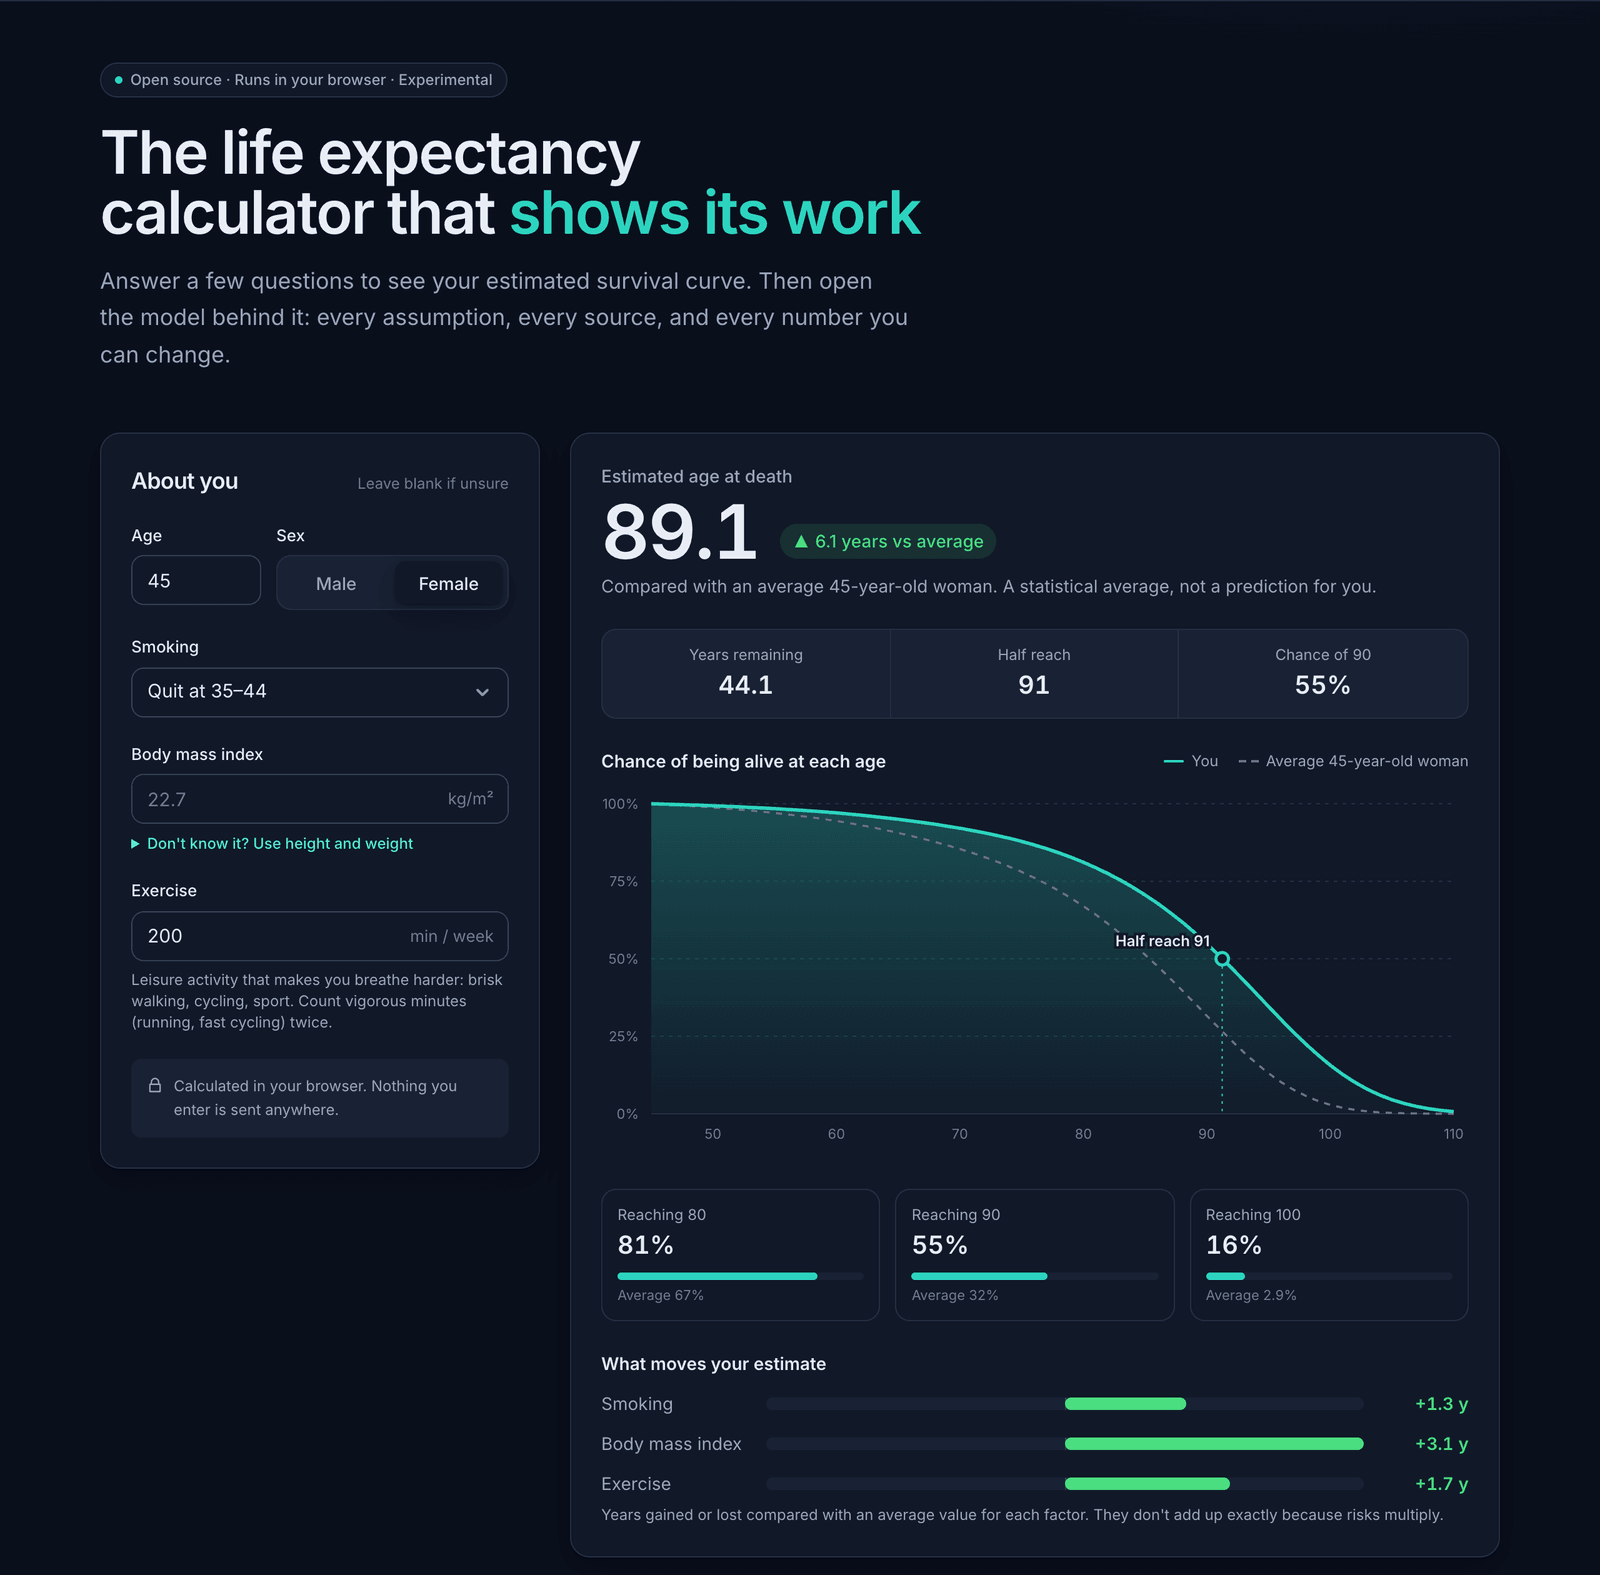
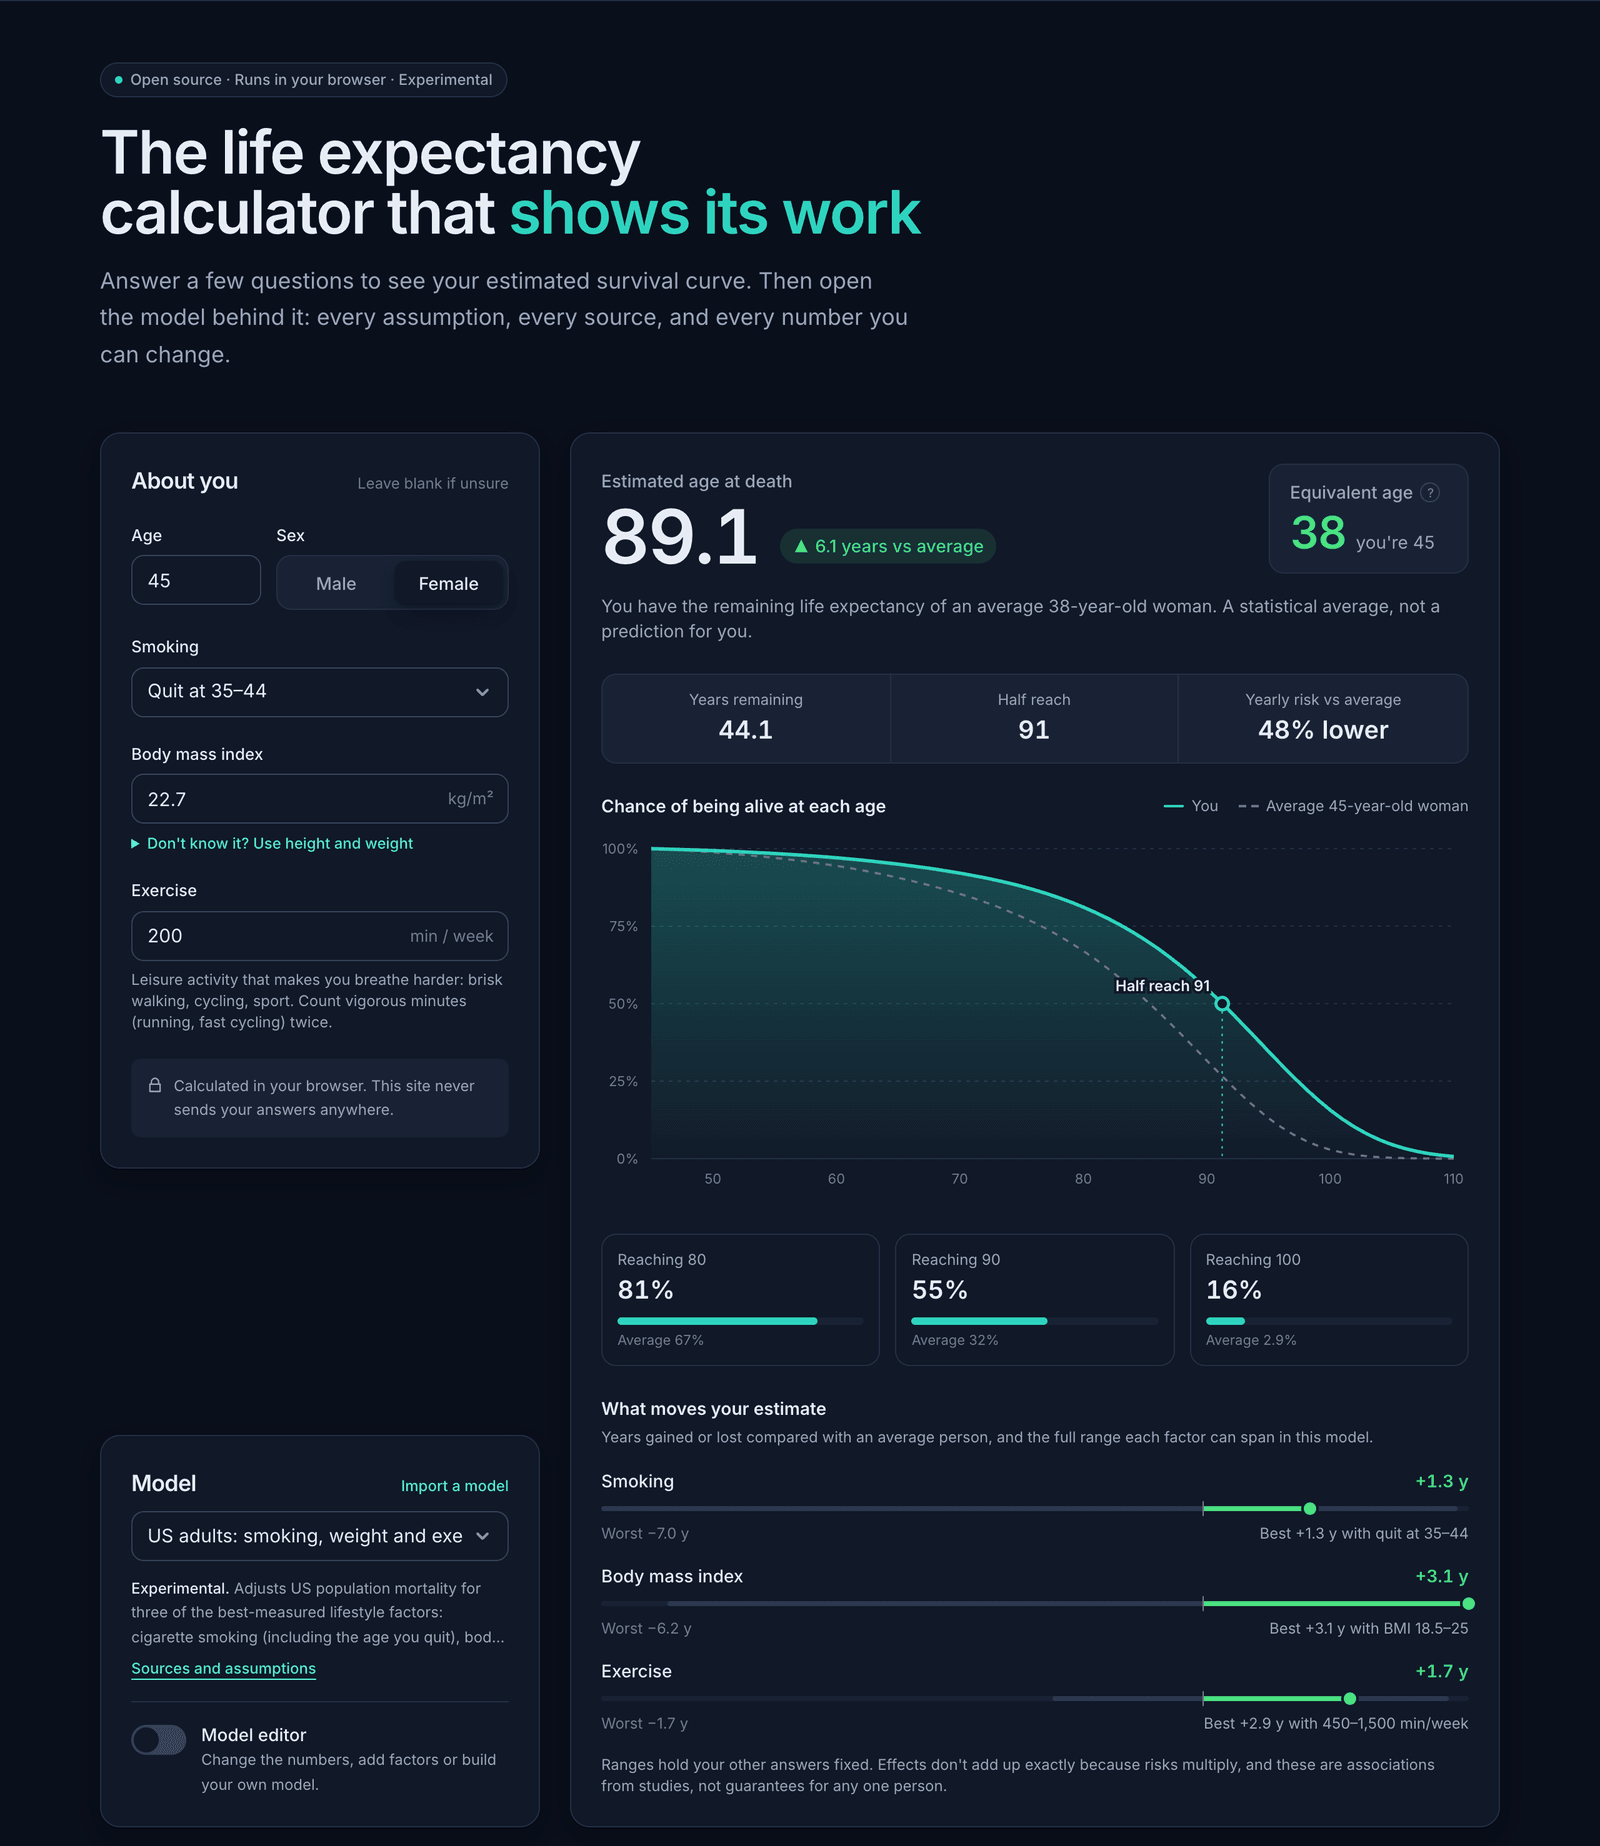
Get the repository ready for visitors (#19)
- CONTRIBUTING.md: ways to help, contributing models (sources, tests,
  status) and code, licensing of contributions
- SECURITY.md: report privately through GitHub's private vulnerability
  reporting (now enabled); CODE_OF_CONDUCT.md
- Issue forms: bug report, model evidence (challenge a number), feature
  request; blank issues off, questions routed to Discussions (now enabled);
  pull request template; "model-evidence" label
- Contact moves to GitHub in the repo; on the website the address is
  assembled in the browser so it never appears whole in page source
- README: refreshed light/dark screenshots and contributing section

diff --git a/web/app/privacy/page.tsx b/web/app/privacy/page.tsx
@@ -1,4 +1,5 @@
 import type { Metadata } from "next";
+import { ContactEmail } from "@/components/ContactEmail";
 import { REPO_URL } from "@/lib/site";
 
 export const metadata: Metadata = {
@@ -41,7 +42,7 @@ export default function Privacy() {
         your IP address or anything you entered in the calculator. The list is kept in a Cloudflare database in
         Western Europe and used only to email you when accounts open. Every email will include a way to unsubscribe,
         and you can ask us to delete your entry at any time by writing to{" "}
-        <a href="mailto:info@openlifemodel.com">info@openlifemodel.com</a>.
+        <ContactEmail />.
       </p>
 
       <h2>Visit statistics</h2>
@@ -78,7 +79,7 @@ export default function Privacy() {
 
       <h2>Contact</h2>
       <p>
-        Questions: <a href="mailto:info@openlifemodel.com">info@openlifemodel.com</a>
+        Questions: <ContactEmail />
       </p>
     </article>
   );

diff --git a/web/app/layout.tsx b/web/app/layout.tsx
@@ -1,6 +1,7 @@
 import type { Metadata, Viewport } from "next";
 import { Inter } from "next/font/google";
 import Link from "next/link";
+import { ContactEmail } from "@/components/ContactEmail";
 import { EARLY_ACCESS_ENABLED } from "@/components/EarlyAccess";
 import { ThemeToggle, themeScript } from "@/components/ThemeToggle";
 import { REPO_URL, SITE_URL } from "@/lib/site";
@@ -116,9 +117,7 @@ export default function RootLayout({ children }: { children: React.ReactNode }) 
               <Link href="/privacy/" className="block hover:text-fg">
                 Privacy
               </Link>
-              <a href="mailto:info@openlifemodel.com" className="block hover:text-fg">
-                info@openlifemodel.com
-              </a>
+              <ContactEmail className="block hover:text-fg" />
             </div>
           </div>
         </footer>

diff --git a/web/components/ContactEmail.tsx b/web/components/ContactEmail.tsx
@@ -1,0 +1,19 @@
+"use client";
+
+import { useEffect, useState } from "react";
+
+// The address is put together in the browser, so it never appears whole in the
+// page source or the data Next.js embeds, which is what spam scrapers read.
+const USER = "info";
+const DOMAIN = "openlifemodel.com";
+
+export function ContactEmail({ className }: { className?: string }) {
+  const [address, setAddress] = useState<string | null>(null);
+  useEffect(() => setAddress(`${USER}@${DOMAIN}`), []);
+  if (!address) return <span className={className}>{`${USER} at ${DOMAIN}`}</span>;
+  return (
+    <a href={`mailto:${address}`} className={className}>
+      {address}
+    </a>
+  );
+}

diff --git a/CONTRIBUTING.md b/CONTRIBUTING.md
@@ -1,0 +1,64 @@
+# Contributing to OpenLifeModel
+
+Thanks for helping. OpenLifeModel is an experimental project: an open format
+(OLM) for survival models, a reference engine, and a browser calculator. The
+most valuable contributions are often not code: better evidence, sharper
+critique of the method, and new models.
+
+## Ways to help
+
+| You want to… | Do this |
+| --- | --- |
+| Ask a question or discuss the method | Start a [Discussion](https://github.com/OpenLifeModel/openlifemodel/discussions) |
+| Challenge a number in a model (a hazard ratio, a population share, a source) | Open a **Model evidence** issue |
+| Report something broken | Open a **Bug report** issue |
+| Suggest a feature or a change to the OLM format | Start a Discussion in **Ideas** first |
+| Contribute a model | Open a pull request adding a `.olm.yaml` file (see below) |
+| Report a security problem | Use [private vulnerability reporting](https://github.com/OpenLifeModel/openlifemodel/security/advisories/new), not a public issue (see [SECURITY.md](SECURITY.md)) |
+
+## Contributing a model
+
+Models live in [`models/`](models/) as OLM files; the format is described in
+[`spec/OLM-SPEC.md`](spec/OLM-SPEC.md). The quickest way to make one is the
+model editor on [openlifemodel.com](https://openlifemodel.com) (switch on
+"Model editor"), then download the file.
+
+A model is welcome when it:
+
+- cites a source for every hazard ratio and population share (a DOI where one exists);
+- states its intended population and its assumptions, including any likely double-counting between factors;
+- includes reference tests (use `origin: published` for values reported by the source itself);
+- passes `pnpm test`, which validates every file in `models/` and runs its tests.
+
+Use `status: illustrative` for numbers that are not evidence-based. Each model
+file carries its own `license`; choose one that lets others reuse it.
+
+## Contributing code
+
+Requirements: Node 24 and pnpm.
+
+```bash
+pnpm install
+pnpm test                                  # engine, models and web tests
+pnpm typecheck
+pnpm --filter @openlifemodel/web dev       # http://localhost:3100
+```
+
+- Open an issue or Discussion before large changes, so we can agree on the approach.
+- Keep the engine (`engine/`) free of UI code; it is used by the website and should be usable anywhere.
+- New dependencies need a short justification (purpose, maintenance, licence) in the pull request; only licences compatible with Apache-2.0.
+- Changes to the OLM format also update `spec/OLM-SPEC.md`, the JSON Schemas and the tests.
+- Pull requests need passing CI. Keep them focused; one change per pull request is easiest to review.
+
+## Licensing of contributions
+
+By contributing you agree that your contribution is licensed under the licence
+of the part of the repository it changes: Apache-2.0 for code, CC-BY-4.0 for
+the specification and documentation, and the file's own `license` for model
+files. The OpenLifeModel name and logo are not covered; see
+[TRADEMARKS.md](TRADEMARKS.md).
+
+## Conduct
+
+Be kind and assume good faith. Disagree about evidence with evidence. See the
+[Code of Conduct](CODE_OF_CONDUCT.md).

diff --git a/README.md b/README.md
@@ -19,7 +19,7 @@
   <a href="https://openlifemodel.com">
     <picture>
       <source media="(prefers-color-scheme: dark)" srcset="docs/images/screenshot-dark.png">
-      <img src="docs/images/screenshot-light.png" width="860" alt="The OpenLifeModel calculator: a profile form beside an estimated age at death of 89.1, a survival curve compared with the average, chances of reaching 80, 90 and 100, and the years each factor adds or removes.">
+      <img src="docs/images/screenshot-light.png" width="860" alt="The OpenLifeModel calculator: a profile form and model picker beside an estimated age at death of 89.1 and an equivalent age of 38, a survival curve compared with the average, chances of reaching 80, 90 and 100, and how each factor compares with its best level.">
     </picture>
   </a>
 </p>
@@ -109,10 +109,8 @@ stage and will change.
 
 ## Contributing
 
-Issues and discussion are welcome now. Code contributions will be easier once
-the engine and spec skeleton land. By submitting a contribution you agree it is
-licensed under the licence of the part of the repository it changes.
-
-## Contact
-
-info@openlifemodel.com · [openlifemodel.com](https://openlifemodel.com)
+Questions and methodology debates are welcome in
+[Discussions](https://github.com/OpenLifeModel/openlifemodel/discussions).
+To challenge a number in a model, open a **Model evidence** issue. See
+[CONTRIBUTING.md](CONTRIBUTING.md) for contributing models and code, and
+[SECURITY.md](SECURITY.md) to report a vulnerability privately.

diff --git a/SECURITY.md b/SECURITY.md
@@ -1,0 +1,25 @@
+# Security policy
+
+## Reporting a vulnerability
+
+Please **do not** open a public issue for security problems. Report them
+privately through GitHub:
+[Report a vulnerability](https://github.com/OpenLifeModel/openlifemodel/security/advisories/new)
+(Security tab → "Report a vulnerability").
+
+Please include what you found, how to reproduce it, and the impact you expect.
+We aim to acknowledge reports within a few days and will keep you updated while
+we fix the problem. We are happy to credit you once a fix is released.
+
+## Scope
+
+- The engine, reference web app and model validation in this repository.
+- The hosted site at openlifemodel.com, including the early-access sign-up.
+
+The calculator runs in the visitor's browser and the site does not receive
+health answers, so issues that could expose a visitor's inputs, run code in
+their browser, or tamper with model files on import are especially important.
+
+Out of scope: denial-of-service, automated scanner output without a
+demonstrated impact, and missing security headers that have no practical
+effect.

diff --git a/CODE_OF_CONDUCT.md b/CODE_OF_CONDUCT.md
@@ -1,0 +1,27 @@
+# Code of Conduct
+
+OpenLifeModel touches health, mortality and personal habits, topics people care
+about deeply. We want this to be a welcoming place to discuss them carefully.
+
+## Expected
+
+- Be respectful and assume good faith.
+- Argue about evidence with evidence: cite studies, show your working.
+- Remember that real people's health and lives sit behind every number.
+- Welcome newcomers and questions at every level.
+
+## Not acceptable
+
+- Harassment, insults or personal attacks.
+- Discrimination of any kind.
+- Medical advice directed at individuals, or shaming people for their health or habits.
+- Spam, or promoting products under the guise of discussion.
+- Sharing other people's personal or health information.
+
+## Enforcement
+
+Maintainers may edit, hide or remove contributions, and temporarily or
+permanently block participants, when this code is not followed. To report a
+problem, use GitHub's **Report content** option on the comment or issue, or ask
+a maintainer for a private channel in a Discussion. Reports are handled
+confidentially.

diff --git a/docs/platform-setup.md b/docs/platform-setup.md
@@ -23,7 +23,7 @@ as any change to it. No secrets, IP addresses or account IDs here.
   path and query) through a Cloudflare Single Redirect rule; the apex is the
   canonical host.
 - DMARC: `p=reject`, because no mail is sent as this domain yet. Relax it when outbound email (SES) is added.
-- Email: Cloudflare Email Routing forwards `info@openlifemodel.com` to the
+- Email: Cloudflare Email Routing forwards the public info@ address to the
   owner's mailbox. No outbound email is sent by the project yet.
 
 ## Hosting

diff --git a/TRADEMARKS.md b/TRADEMARKS.md
@@ -21,4 +21,4 @@ If you fork the reference app and host it publicly, give it a different name
 and replace the logo files (`brand/`, `web/app/favicon.ico`, `web/app/icon.svg`,
 `web/app/apple-icon.png`, `web/app/opengraph-image.png` and
 `web/public/icon-*.png`). See [brand/README.md](brand/README.md).
-Questions: info@openlifemodel.com.
+Questions: ask in [Discussions](https://github.com/OpenLifeModel/openlifemodel/discussions).

diff --git a/.github/pull_request_template.md b/.github/pull_request_template.md
@@ -1,0 +1,10 @@
+## What and why
+
+<!-- What does this change, and why? Link the issue or Discussion. -->
+
+## Checklist
+
+- [ ] `pnpm test` and `pnpm typecheck` pass
+- [ ] New model numbers cite their sources (DOI where possible)
+- [ ] Format changes update `spec/OLM-SPEC.md`, the schemas and tests
+- [ ] New dependencies are justified (purpose, maintenance, licence)
